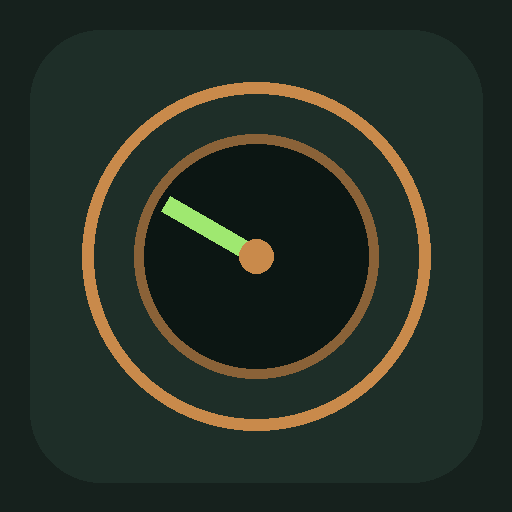
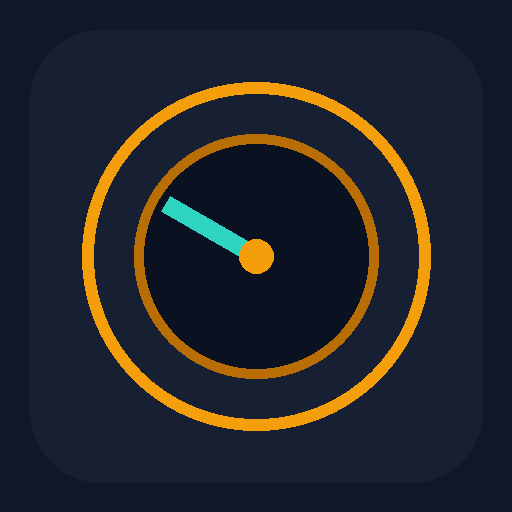
Update theme colors and cache version; enhance UI consistency across files

Changed region(s): [[0.1562, 0.1562, 0.8438, 0.8438], [0.25, 0.25, 0.75, 0.75]]

diff --git a/index.html b/index.html
@@ -14,7 +14,7 @@
 <title>Electricity bill calculator</title>
 
 <link rel="manifest" href="manifest.json">
-<meta name="theme-color" content="#16211d">
+<meta name="theme-color" content="#0F172A">
 <meta name="mobile-web-app-capable" content="yes">
 <meta name="apple-mobile-web-app-capable" content="yes">
 <meta name="apple-mobile-web-app-status-bar-style" content="black-translucent">
@@ -24,33 +24,33 @@
   @import url('https://fonts.googleapis.com/css2?family=Space+Grotesk:wght@400;500;700&family=Space+Mono:wght@400;700&display=swap');
 
   :root{
-    --bg: #16211d;
-    --panel: #1e2e28;
-    --panel-2: #24382f;
-    --copper: #c98a4b;
-    --copper-dim: #8a6238;
-    --lcd: #9fe870;
-    --lcd-dim: #4f7a3c;
-    --cream: #f4efe2;
-    --cream-dim: #b9b3a2;
-    --line: #3a4c43;
-    --blue: #7fb8d8;
-    --readout-bg: #0c1613;
+    --bg: #0F172A;
+    --panel: #172033;
+    --panel-2: #1E293B;
+    --copper: #F59E0B;
+    --copper-dim: #B96D05;
+    --lcd: #2DD4BF;
+    --lcd-dim: #168F82;
+    --cream: #F8FAFC;
+    --cream-dim: #94A3B8;
+    --line: #334155;
+    --blue: #60A5FA;
+    --readout-bg: #0A1120;
   }
 
   [data-theme="light"]{
-    --bg: #f3f0e6;
-    --panel: #ffffff;
-    --panel-2: #eef0e8;
-    --copper: #a8622a;
-    --copper-dim: #d9b48c;
-    --lcd: #2f7d40;
-    --lcd-dim: #6f8f74;
-    --cream: #20291f;
-    --cream-dim: #6a7267;
-    --line: #dbdccf;
-    --blue: #2f6a8a;
-    --readout-bg: #f3f0e6;
+    --bg: #F4F7FB;
+    --panel: #FFFFFF;
+    --panel-2: #F8FAFC;
+    --copper: #E38B2C;
+    --copper-dim: #B96A16;
+    --lcd: #087F8C;
+    --lcd-dim: #5BA8AE;
+    --cream: #172033;
+    --cream-dim: #667085;
+    --line: #D9E1EA;
+    --blue: #2563EB;
+    --readout-bg: #F1F5F9;
   }
 
   html{ transition: background-color 0.25s ease; }
@@ -315,7 +315,7 @@
     font-family: 'Space Grotesk', sans-serif; font-size: 13px; border-radius: 8px;
     padding: 10px 14px; cursor: pointer; border: 1px solid transparent; min-height: 42px;
   }
-  .install-banner .btn-install{ background: var(--copper); color: #16211d; font-weight: 700; border-color: var(--copper); }
+  .install-banner .btn-install{ background: var(--copper); color: #0F172A; font-weight: 700; border-color: var(--copper); }
   .install-banner .btn-dismiss{ background: transparent; color: var(--cream-dim); border-color: var(--line); }
 
   @media print{ .install-banner{ display:none !important; } }
@@ -323,7 +323,7 @@
   /* ---------- Splash screen ---------- */
   #splash{
     position: fixed; inset: 0; z-index: 2000;
-    background: radial-gradient(circle at 50% 42%, #1c2b25 0%, #0f1a16 70%, #0a1310 100%);
+    background: radial-gradient(circle at 50% 42%, #172033 0%, #0F172A 70%, #0A1120 100%);
     display:flex; flex-direction:column; align-items:center; justify-content:center;
     transition: opacity 0.5s ease, visibility 0.5s ease;
   }
@@ -383,7 +383,7 @@
   #updateToast .text .t2{ font-size: 11px; color: var(--cream-dim); margin-top: 2px; }
   #updateToast button{
     font-family: 'Space Grotesk', sans-serif; font-size: 12px; font-weight: 700;
-    background: var(--blue); color: #16211d; border: none; border-radius: 6px;
+    background: var(--blue); color: #0F172A; border: none; border-radius: 6px;
     padding: 8px 12px; cursor: pointer; flex-shrink:0; min-height: 36px;
   }
   @media print{ #updateToast{ display:none !important; } }
@@ -419,13 +419,13 @@
   <div class="splash-ring">
     <div class="glow"></div>
     <svg viewBox="0 0 120 120">
-      <circle cx="60" cy="60" r="52" fill="none" stroke="#3a4c43" stroke-width="2"/>
-      <circle cx="60" cy="60" r="52" fill="none" stroke="#c98a4b" stroke-width="2" stroke-dasharray="4 6" opacity="0.5"/>
+      <circle cx="60" cy="60" r="52" fill="none" stroke="#334155" stroke-width="2"/>
+      <circle cx="60" cy="60" r="52" fill="none" stroke="#F59E0B" stroke-width="2" stroke-dasharray="4 6" opacity="0.5"/>
       <g id="splashDisc">
-        <circle cx="60" cy="60" r="38" fill="#0c1613" stroke="#8a6238" stroke-width="1.5"/>
-        <line x1="60" y1="60" x2="60" y2="24" stroke="#9fe870" stroke-width="3" stroke-linecap="round"/>
-        <line x1="60" y1="60" x2="60" y2="96" stroke="#4f7a3c" stroke-width="2" stroke-linecap="round"/>
-        <circle cx="60" cy="60" r="4" fill="#c98a4b"/>
+        <circle cx="60" cy="60" r="38" fill="#0A1120" stroke="#B96D05" stroke-width="1.5"/>
+        <line x1="60" y1="60" x2="60" y2="24" stroke="#2DD4BF" stroke-width="3" stroke-linecap="round"/>
+        <line x1="60" y1="60" x2="60" y2="96" stroke="#168F82" stroke-width="2" stroke-linecap="round"/>
+        <circle cx="60" cy="60" r="4" fill="#F59E0B"/>
       </g>
     </svg>
   </div>
@@ -472,15 +472,15 @@
   <div class="meter">
     <div class="dial-holder">
       <svg width="120" height="120" viewBox="0 0 120 120">
-        <circle cx="60" cy="60" r="52" fill="none" stroke="#3a4c43" stroke-width="2"/>
-        <circle cx="60" cy="60" r="52" fill="none" stroke="#c98a4b" stroke-width="2" stroke-dasharray="4 6" opacity="0.5"/>
+        <circle cx="60" cy="60" r="52" fill="none" stroke="#334155" stroke-width="2"/>
+        <circle cx="60" cy="60" r="52" fill="none" stroke="#F59E0B" stroke-width="2" stroke-dasharray="4 6" opacity="0.5"/>
         <g id="disc">
-          <circle cx="60" cy="60" r="38" fill="#0c1613" stroke="#8a6238" stroke-width="1.5"/>
-          <line x1="60" y1="60" x2="60" y2="24" stroke="#9fe870" stroke-width="3" stroke-linecap="round"/>
-          <line x1="60" y1="60" x2="60" y2="96" stroke="#4f7a3c" stroke-width="2" stroke-linecap="round"/>
-          <circle cx="60" cy="60" r="4" fill="#c98a4b"/>
+          <circle cx="60" cy="60" r="38" fill="#0A1120" stroke="#B96D05" stroke-width="1.5"/>
+          <line x1="60" y1="60" x2="60" y2="24" stroke="#2DD4BF" stroke-width="3" stroke-linecap="round"/>
+          <line x1="60" y1="60" x2="60" y2="96" stroke="#168F82" stroke-width="2" stroke-linecap="round"/>
+          <circle cx="60" cy="60" r="4" fill="#F59E0B"/>
         </g>
-        <text x="60" y="115" text-anchor="middle" font-family="Space Mono, monospace" font-size="8" fill="#b9b3a2">kWh LOAD</text>
+        <text x="60" y="115" text-anchor="middle" font-family="Space Mono, monospace" font-size="8" fill="#94A3B8">kWh LOAD</text>
       </svg>
     </div>
     <div class="readout">
@@ -1030,9 +1030,18 @@ async function buildShareImage(scope){
   const petaAmt = document.getElementById('petaAmt').textContent;
 
   const W = 820, pad = 48;
-  const bg = '#16211d', panel = '#1e2e28', line = '#3a4c43';
-  const copper = '#c98a4b', copperDim = '#8a6238', lcd = '#9fe870', blue = '#7fb8d8';
-  const cream = '#f4efe2', creamDim = '#b9b3a2';
+  const isLight = document.documentElement.getAttribute('data-theme') === 'light';
+  const bg = isLight ? '#F4F7FB' : '#0F172A';
+  const bgGradInner = isLight ? '#FFFFFF' : '#172033';
+  const panel = isLight ? '#FFFFFF' : '#172033';
+  const line = isLight ? '#D9E1EA' : '#334155';
+  const copper = isLight ? '#E38B2C' : '#F59E0B';
+  const copperDim = isLight ? '#B96A16' : '#B96D05';
+  const lcd = isLight ? '#087F8C' : '#2DD4BF';
+  const blue = isLight ? '#2563EB' : '#60A5FA';
+  const cream = isLight ? '#172033' : '#F8FAFC';
+  const creamDim = isLight ? '#667085' : '#94A3B8';
+  const readoutBg = isLight ? '#F1F5F9' : '#0A1120';
 
   // ---- lay out sections top-to-bottom with a running cursor, so the
   // canvas height always matches exactly what gets drawn (no dead space) ----
@@ -1082,7 +1091,7 @@ async function buildShareImage(scope){
       ctx.beginPath(); ctx.arc(dcx, dcy, dr, 0, Math.PI*2); ctx.stroke();
       ctx.setLineDash([]); ctx.globalAlpha = 1;
 
-      ctx.fillStyle = '#0c1613';
+      ctx.fillStyle = readoutBg;
       ctx.beginPath(); ctx.arc(dcx, dcy, dr*0.72, 0, Math.PI*2); ctx.fill();
       ctx.strokeStyle = copperDim; ctx.lineWidth = 1.5;
       ctx.beginPath(); ctx.arc(dcx, dcy, dr*0.72, 0, Math.PI*2); ctx.stroke();
@@ -1093,7 +1102,7 @@ async function buildShareImage(scope){
       ctx.beginPath(); ctx.arc(dcx, dcy, 5, 0, Math.PI*2); ctx.fill();
 
       const rx = pad + 168, rw = W - pad - rx, rh = 152, ry = yy;
-      ctx.fillStyle = '#0c1613';
+      ctx.fillStyle = readoutBg;
       roundRectPath(ctx, rx, ry, rw, rh, 10); ctx.fill();
       ctx.strokeStyle = copperDim; ctx.lineWidth = 1.5;
       roundRectPath(ctx, rx, ry, rw, rh, 10); ctx.stroke();
@@ -1184,7 +1193,7 @@ async function buildShareImage(scope){
   const ctx = canvas.getContext('2d');
 
   const grad = ctx.createRadialGradient(W/2, 140, 60, W/2, 140, H*0.8);
-  grad.addColorStop(0, '#1c2b25');
+  grad.addColorStop(0, bgGradInner);
   grad.addColorStop(1, bg);
   ctx.fillStyle = grad;
   ctx.fillRect(0, 0, W, H);

diff --git a/history.html b/history.html
@@ -14,7 +14,7 @@
 <title>History &mdash; Electricity bill calculator</title>
 
 <link rel="manifest" href="manifest.json">
-<meta name="theme-color" content="#16211d">
+<meta name="theme-color" content="#0F172A">
 <meta name="mobile-web-app-capable" content="yes">
 <meta name="apple-mobile-web-app-capable" content="yes">
 <meta name="apple-mobile-web-app-status-bar-style" content="black-translucent">
@@ -25,32 +25,32 @@
   @import url('https://fonts.googleapis.com/css2?family=Space+Grotesk:wght@400;500;700&family=Space+Mono:wght@400;700&display=swap');
 
   :root{
-    --bg: #16211d;
-    --panel: #1e2e28;
-    --panel-2: #24382f;
-    --copper: #c98a4b;
-    --copper-dim: #8a6238;
-    --lcd: #9fe870;
-    --lcd-dim: #4f7a3c;
-    --cream: #f4efe2;
-    --cream-dim: #b9b3a2;
-    --line: #3a4c43;
-    --blue: #7fb8d8;
-    --readout-bg: #0c1613;
+    --bg: #0F172A;
+    --panel: #172033;
+    --panel-2: #1E293B;
+    --copper: #F59E0B;
+    --copper-dim: #B96D05;
+    --lcd: #2DD4BF;
+    --lcd-dim: #168F82;
+    --cream: #F8FAFC;
+    --cream-dim: #94A3B8;
+    --line: #334155;
+    --blue: #60A5FA;
+    --readout-bg: #0A1120;
   }
   [data-theme="light"]{
-    --bg: #f3f0e6;
-    --panel: #ffffff;
-    --panel-2: #eef0e8;
-    --copper: #a8622a;
-    --copper-dim: #d9b48c;
-    --lcd: #2f7d40;
-    --lcd-dim: #6f8f74;
-    --cream: #20291f;
-    --cream-dim: #6a7267;
-    --line: #dbdccf;
-    --blue: #2f6a8a;
-    --readout-bg: #f3f0e6;
+    --bg: #F4F7FB;
+    --panel: #FFFFFF;
+    --panel-2: #F8FAFC;
+    --copper: #E38B2C;
+    --copper-dim: #B96A16;
+    --lcd: #087F8C;
+    --lcd-dim: #5BA8AE;
+    --cream: #172033;
+    --cream-dim: #667085;
+    --line: #D9E1EA;
+    --blue: #2563EB;
+    --readout-bg: #F1F5F9;
   }
 
   *{ box-sizing: border-box; -webkit-tap-highlight-color: transparent; }
@@ -646,17 +646,17 @@ async function buildEntryShareImage(entry, scope){
 
   const W = 820, pad = 48;
   const isLight = document.documentElement.getAttribute('data-theme') === 'light';
-  const bg = isLight ? '#f3f0e6' : '#16211d';
-  const bgGradInner = isLight ? '#ffffff' : '#1c2b25';
-  const panel = isLight ? '#ffffff' : '#1e2e28';
-  const line = isLight ? '#dbdccf' : '#3a4c43';
-  const copper = isLight ? '#a8622a' : '#c98a4b';
-  const copperDim = isLight ? '#d9b48c' : '#8a6238';
-  const lcd = isLight ? '#2f7d40' : '#9fe870';
-  const blue = isLight ? '#2f6a8a' : '#7fb8d8';
-  const cream = isLight ? '#20291f' : '#f4efe2';
-  const creamDim = isLight ? '#6a7267' : '#b9b3a2';
-  const readoutBg = isLight ? '#f3f0e6' : '#0c1613';
+  const bg = isLight ? '#F4F7FB' : '#0F172A';
+  const bgGradInner = isLight ? '#FFFFFF' : '#172033';
+  const panel = isLight ? '#FFFFFF' : '#172033';
+  const line = isLight ? '#D9E1EA' : '#334155';
+  const copper = isLight ? '#E38B2C' : '#F59E0B';
+  const copperDim = isLight ? '#B96A16' : '#B96D05';
+  const lcd = isLight ? '#087F8C' : '#2DD4BF';
+  const blue = isLight ? '#2563EB' : '#60A5FA';
+  const cream = isLight ? '#172033' : '#F8FAFC';
+  const creamDim = isLight ? '#667085' : '#94A3B8';
+  const readoutBg = isLight ? '#F1F5F9' : '#0A1120';
 
   const { mainUnits, petaUnits } = deriveEntryUnits(entry);
 

diff --git a/sw.js b/sw.js
@@ -1,4 +1,4 @@
-const CACHE_NAME = 'bill-calc-v16';
+const CACHE_NAME = 'bill-calc-v17';
 const ASSETS = [
   './',
   './index.html',
